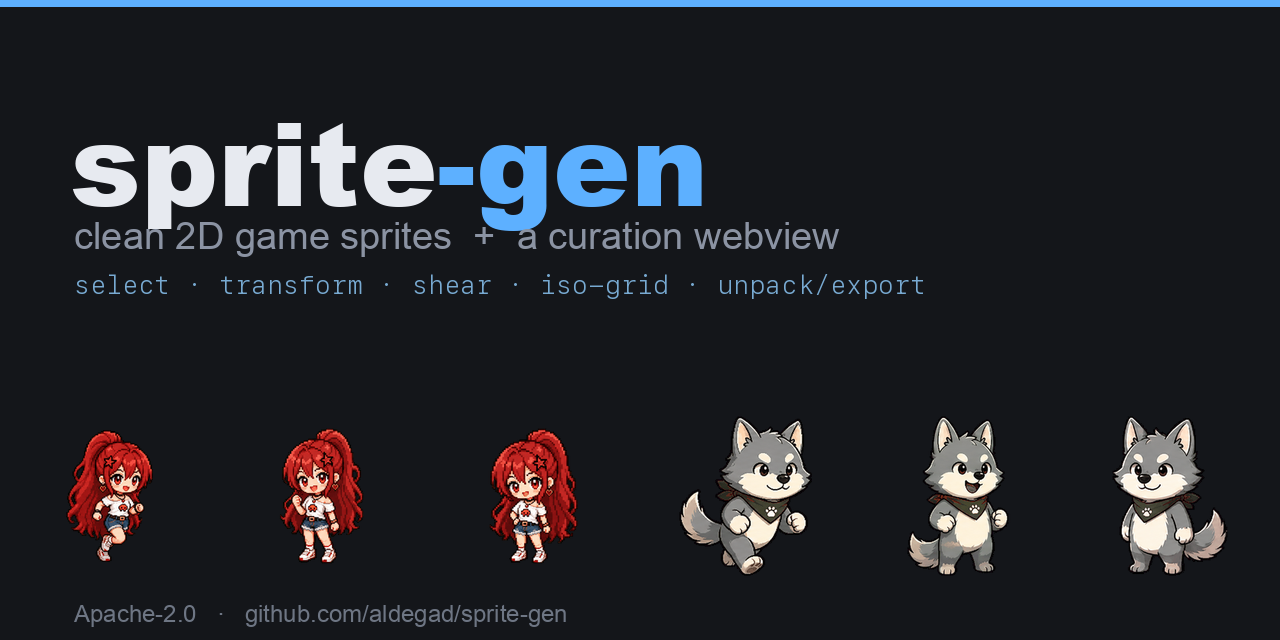
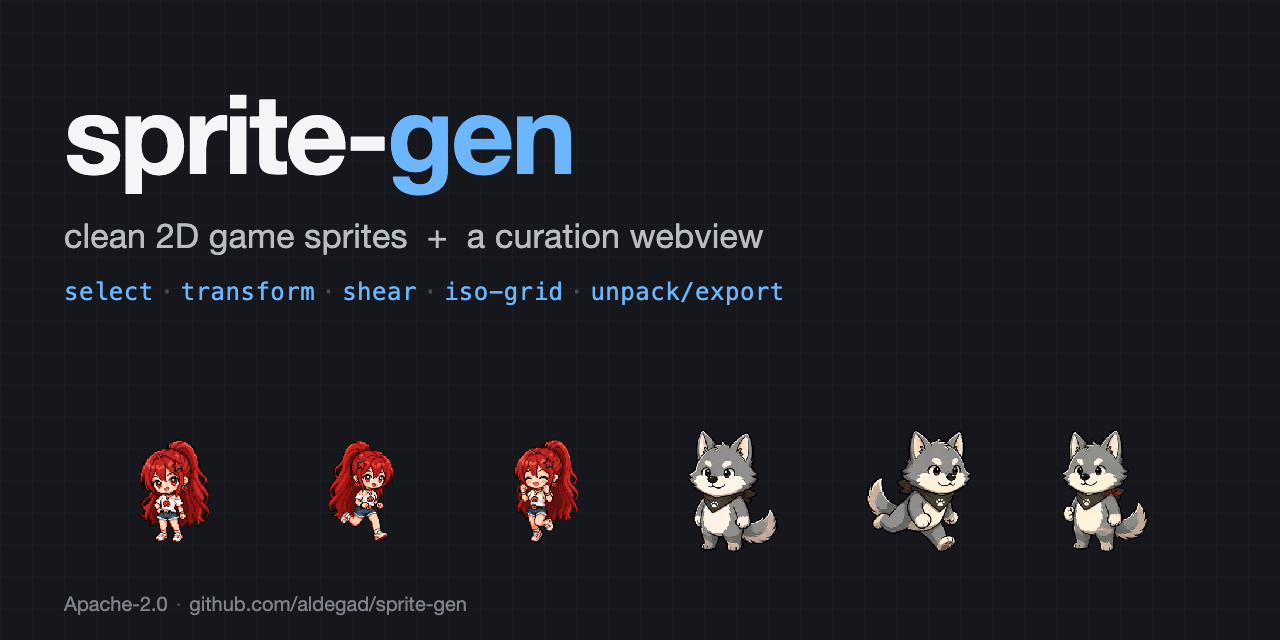
docs: redesign social preview card — fix overlapping text, add card.html source

diff --git a/docs/social-preview-card.html b/docs/social-preview-card.html
@@ -1,0 +1,87 @@
+<!DOCTYPE html>
+<html>
+<head>
+<meta charset="utf-8">
+<style>
+  * { margin: 0; padding: 0; box-sizing: border-box; }
+  html, body { width: 1280px; height: 640px; overflow: hidden; }
+  body {
+    background: #15171c;
+    font-family: -apple-system, "Helvetica Neue", Arial, sans-serif;
+    position: relative;
+    color: #e8eaed;
+  }
+  .grid-bg {
+    position: absolute; inset: 0;
+    background-image:
+      linear-gradient(rgba(255,255,255,0.025) 1px, transparent 1px),
+      linear-gradient(90deg, rgba(255,255,255,0.025) 1px, transparent 1px);
+    background-size: 32px 32px;
+  }
+  .corner { position: absolute; font-size: 28px; }
+  .c-tl { top: 18px; left: 22px; }
+  .c-tr { top: 18px; right: 22px; }
+  .content { position: absolute; left: 64px; top: 78px; }
+  h1 {
+    font-size: 110px;
+    font-weight: 800;
+    letter-spacing: -3px;
+    line-height: 1;
+    color: #f4f5f7;
+  }
+  h1 .accent { color: #6cb6ff; }
+  .subtitle {
+    margin-top: 28px;
+    font-size: 34px;
+    font-weight: 400;
+    color: #b8bcc4;
+    letter-spacing: 0.2px;
+  }
+  .keywords {
+    margin-top: 22px;
+    font-family: "SF Mono", Menlo, monospace;
+    font-size: 24px;
+    color: #6cb6ff;
+    letter-spacing: 0.5px;
+  }
+  .keywords .dot { color: #4a4f59; padding: 0 6px; }
+  .sprites {
+    position: absolute;
+    left: 0; right: 0;
+    bottom: 74px;
+    display: flex;
+    justify-content: center;
+    align-items: flex-end;
+    gap: 36px;
+  }
+  .sprites img {
+    width: 150px; height: 150px;
+    image-rendering: pixelated;
+  }
+  .footer {
+    position: absolute;
+    left: 64px; bottom: 24px;
+    font-size: 20px;
+    color: #7d828c;
+  }
+  .footer .dot { padding: 0 8px; color: #4a4f59; }
+</style>
+</head>
+<body>
+  <div class="grid-bg"></div>
+  <div class="content">
+    <h1>sprite-<span class="accent">gen</span></h1>
+    <div class="subtitle">clean 2D game sprites&nbsp; +&nbsp; a curation webview</div>
+    <div class="keywords">select<span class="dot">·</span>transform<span class="dot">·</span>shear<span class="dot">·</span>iso-grid<span class="dot">·</span>unpack/export</div>
+  </div>
+  <div class="sprites">
+    <img src="claudecy-idle.png">
+    <img src="claudecy-running.png">
+    <img src="claudecy-success.png">
+    <img src="howl-idle.png">
+    <img src="howl-running.png">
+    <img src="howl-success.png">
+  </div>
+  <div class="footer">Apache-2.0<span class="dot">·</span>github.com/aldegad/sprite-gen</div>
+</body>
+</html>